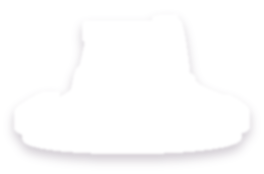
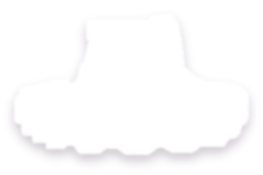
Art: ruffled tulle tutu (Blender) replacing the flat disc
Claude-Session: https://claude.ai/code/session_01SKcRR5fJvjJwxSfuFKwaRi

diff --git a/art/blender/avatar_layers.py b/art/blender/avatar_layers.py
@@ -290,8 +290,33 @@ obj_sphere((0, -0.32, 1.16), (0.04, 0.035, 0.04), m=W_CLOTH)
 
 CUR[0] = 'dress_tutu'
 lathe([(0.2, 1.56), (0.3, 1.5), (0.33, 1.36), (0.35, 1.18), (0.36, 1.05)], W_CLOTH)
-lathe([(0.34, 1.06), (0.55, 1.0), (0.74, 0.9), (0.8, 0.84), (0.76, 0.82)], W_CLOTH, thick=0.03, sy=0.9)
-lathe([(0.34, 1.0), (0.52, 0.94), (0.7, 0.82), (0.74, 0.76), (0.7, 0.74)], W_CLOTH, thick=0.03, sy=0.9)
+def ruffle(r0, r1, z0, drop, waves, amp, m, sy=0.9, phase=0.0, thick=0.025):
+    """Wavy tulle layer: a cone-like skirt whose hem ripples up/down and in/out."""
+    me = bpy.data.meshes.new('ruffle'); bmr = bmesh.new()
+    N, S = 192, 10; grid = []
+    for j in range(S + 1):
+        t = j / S; row = []
+        for i in range(N):
+            th = 2 * math.pi * i / N
+            w = math.sin(waves * th + phase)
+            rr = r0 + (r1 - r0) * t + amp * 0.6 * t * t * math.cos(waves * th + phase)
+            zz = z0 - drop * t + amp * t * t * w
+            row.append(bmr.verts.new((rr * math.cos(th), rr * math.sin(th) * sy, zz)))
+        grid.append(row)
+    for j in range(S):
+        for i in range(N):
+            bmr.faces.new((grid[j][i], grid[j][(i + 1) % N], grid[j + 1][(i + 1) % N], grid[j + 1][i]))
+    bmr.to_mesh(me); bmr.free()
+    o = bpy.data.objects.new('ruffle', me); sc.collection.objects.link(o)
+    so = o.modifiers.new('so', 'SOLIDIFY'); so.thickness = thick
+    ss = o.modifiers.new('ss', 'SUBSURF'); ss.levels = 1; ss.render_levels = 2
+    o.data.materials.append(m)
+    for pf in me.polygons: pf.use_smooth = True
+    return put(o)
+
+ruffle(0.35, 0.84, 1.06, 0.2, 14, 0.06, W_CLOTH, phase=0.0)
+ruffle(0.35, 0.78, 1.02, 0.26, 14, 0.06, W_CLOTH, phase=math.pi / 14)
+ruffle(0.35, 0.7, 0.99, 0.3, 12, 0.05, W_CLOTH, phase=0.4)
 torus(0.36, 0.04, (0, 0, 1.06), W_CLOTH)
 for sx in (-1, 1): obj_curve([(sx * 0.18, -0.2, 1.5), (sx * 0.25, -0.05, 1.62), (sx * 0.24, 0.12, 1.5)], 0.03, m=W_CLOTH)
 star_mesh(0.09, 0.04, (0, -0.33, 1.3), (0, 0, 0), W_CLOTH, 0.04)
